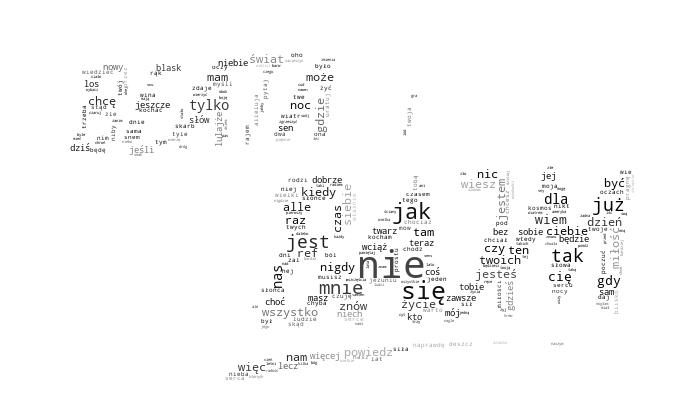
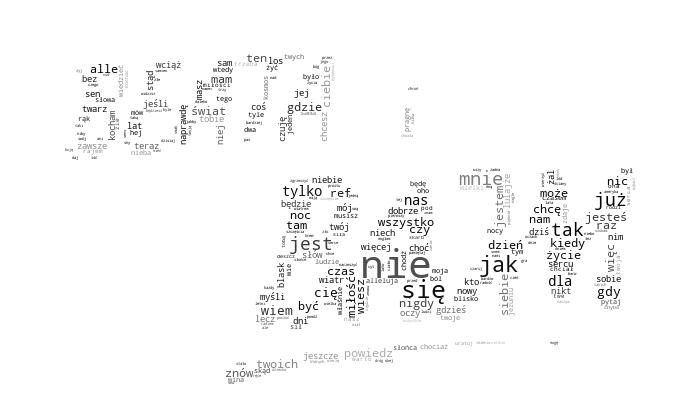
chmurki z tlem

diff --git a/chmurkowanko.py b/chmurkowanko.py
@@ -3,7 +3,7 @@ import matplotlib.pyplot as plt
 import numpy as np
 from wordcloud import WordCloud, ImageColorGenerator
 import przetwarzanko
-from PIL import Image
+from PIL import Image, ImageFilter, ImageEnhance
 
 
 def chmuruj_slownik(wejscie_slownik=przetwarzanko.wczytywanko("Dane.txt"), sciezka='chmura.jpg'):
@@ -69,11 +69,15 @@ def chmury_z_grafik(wejscie_slownik, art, x=3):
 	mask = np.array(zdjecie)
 	
 	
-	chmurka = WordCloud( background_color="white", mode="RGB", mask=mask, max_font_size=50, max_words=3000, width=1500, height=1500, contour_width=0).generate_from_frequencies(slownik_do_chmury)
+	chmurka = WordCloud( background_color="white", mode="RGB", mask=mask, max_font_size=70, max_words=3000, width=1500, height=1500, contour_width=0).generate_from_frequencies(slownik_do_chmury)
 	image_colors = ImageColorGenerator(mask)
 	chmurka.recolor(color_func=image_colors)
 	chmurka.to_file('Chmury\\Grafochmurki\\'+art+'.jpg')
 	slowa=Image.open('Chmury\\Grafochmurki\\'+art+'.jpg')
 	slowa = slowa.resize(zdjecie.size)
-	polaczone = Image.blend(slowa,zdjecie,0.2)
+	zdjecie = zdjecie.filter(ImageFilter.BLUR)
+	zdjecie = ImageEnhance.Color(zdjecie)
+	zdjecie = zdjecie.enhance(0.5)
+	polaczone = Image.blend(slowa,zdjecie,0.15)
+
 	polaczone.save('Chmury\\Grafochmurki\\'+art+'_z_tlem.jpg')
